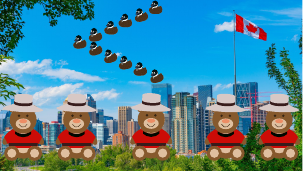
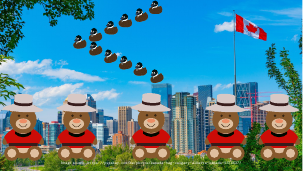
added image credit

Changed region(s): [[0.1782, 0.9357, 0.802, 0.9649]]

diff --git a/max/commercial/commercial_repeat.tex b/max/commercial/commercial_repeat.tex
@@ -1,10 +1,19 @@
 \documentclass[aspectratio=169]{beamer}
 
 \usepackage{pdfpages}
+\usepackage{tikz}
 \setbeamertemplate{navigation symbols}{}
 
 \begin{document}
 
-\includepdf[pages=-,width=\paperwidth]{commercial}
+\includepdf[
+  pages=-,
+  width=\paperwidth,
+  pagecommand={
+    \begin{tikzpicture}[remember picture,overlay]
+      \node[white,text width=\paperwidth,font=\tiny,align=center] at ([yshift=0.35cm]current page.south) {Image source: \url{https://pixabay.com/de/photos/kanada-tag-calgary-alberta-kanada-5370627/}};
+    \end{tikzpicture}
+  }
+]{commercial}
 
 \end{document}
